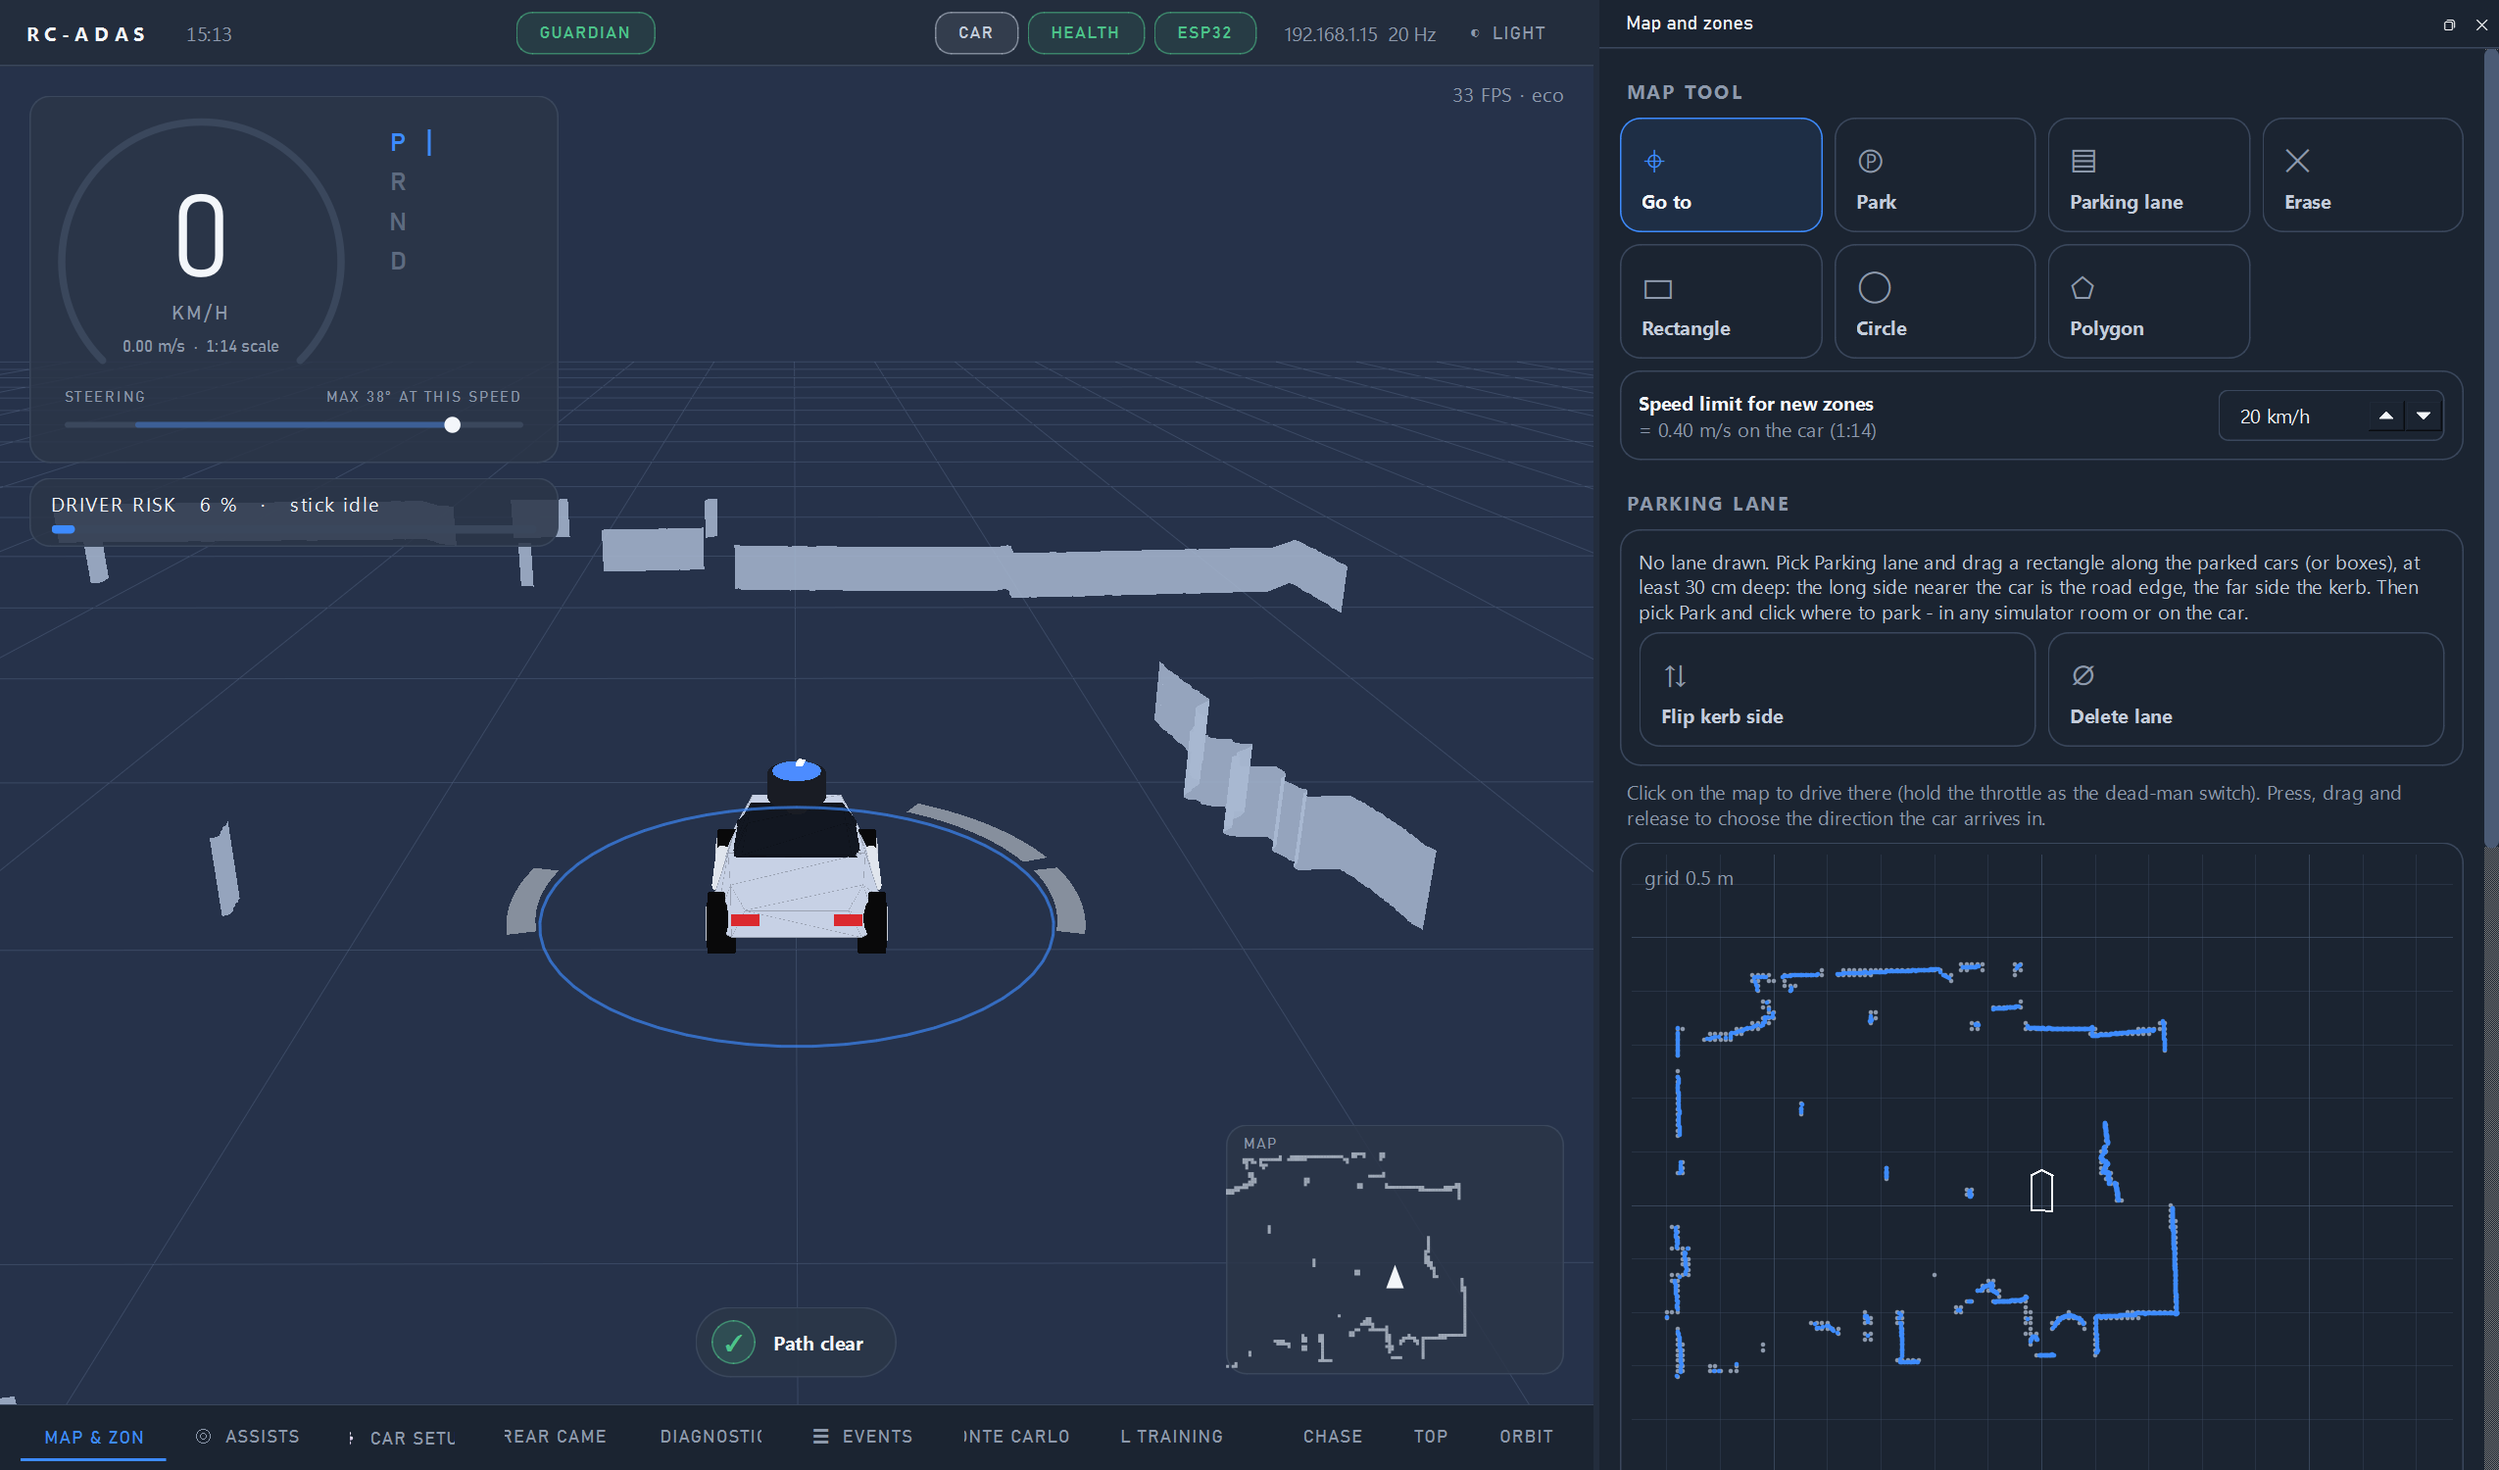
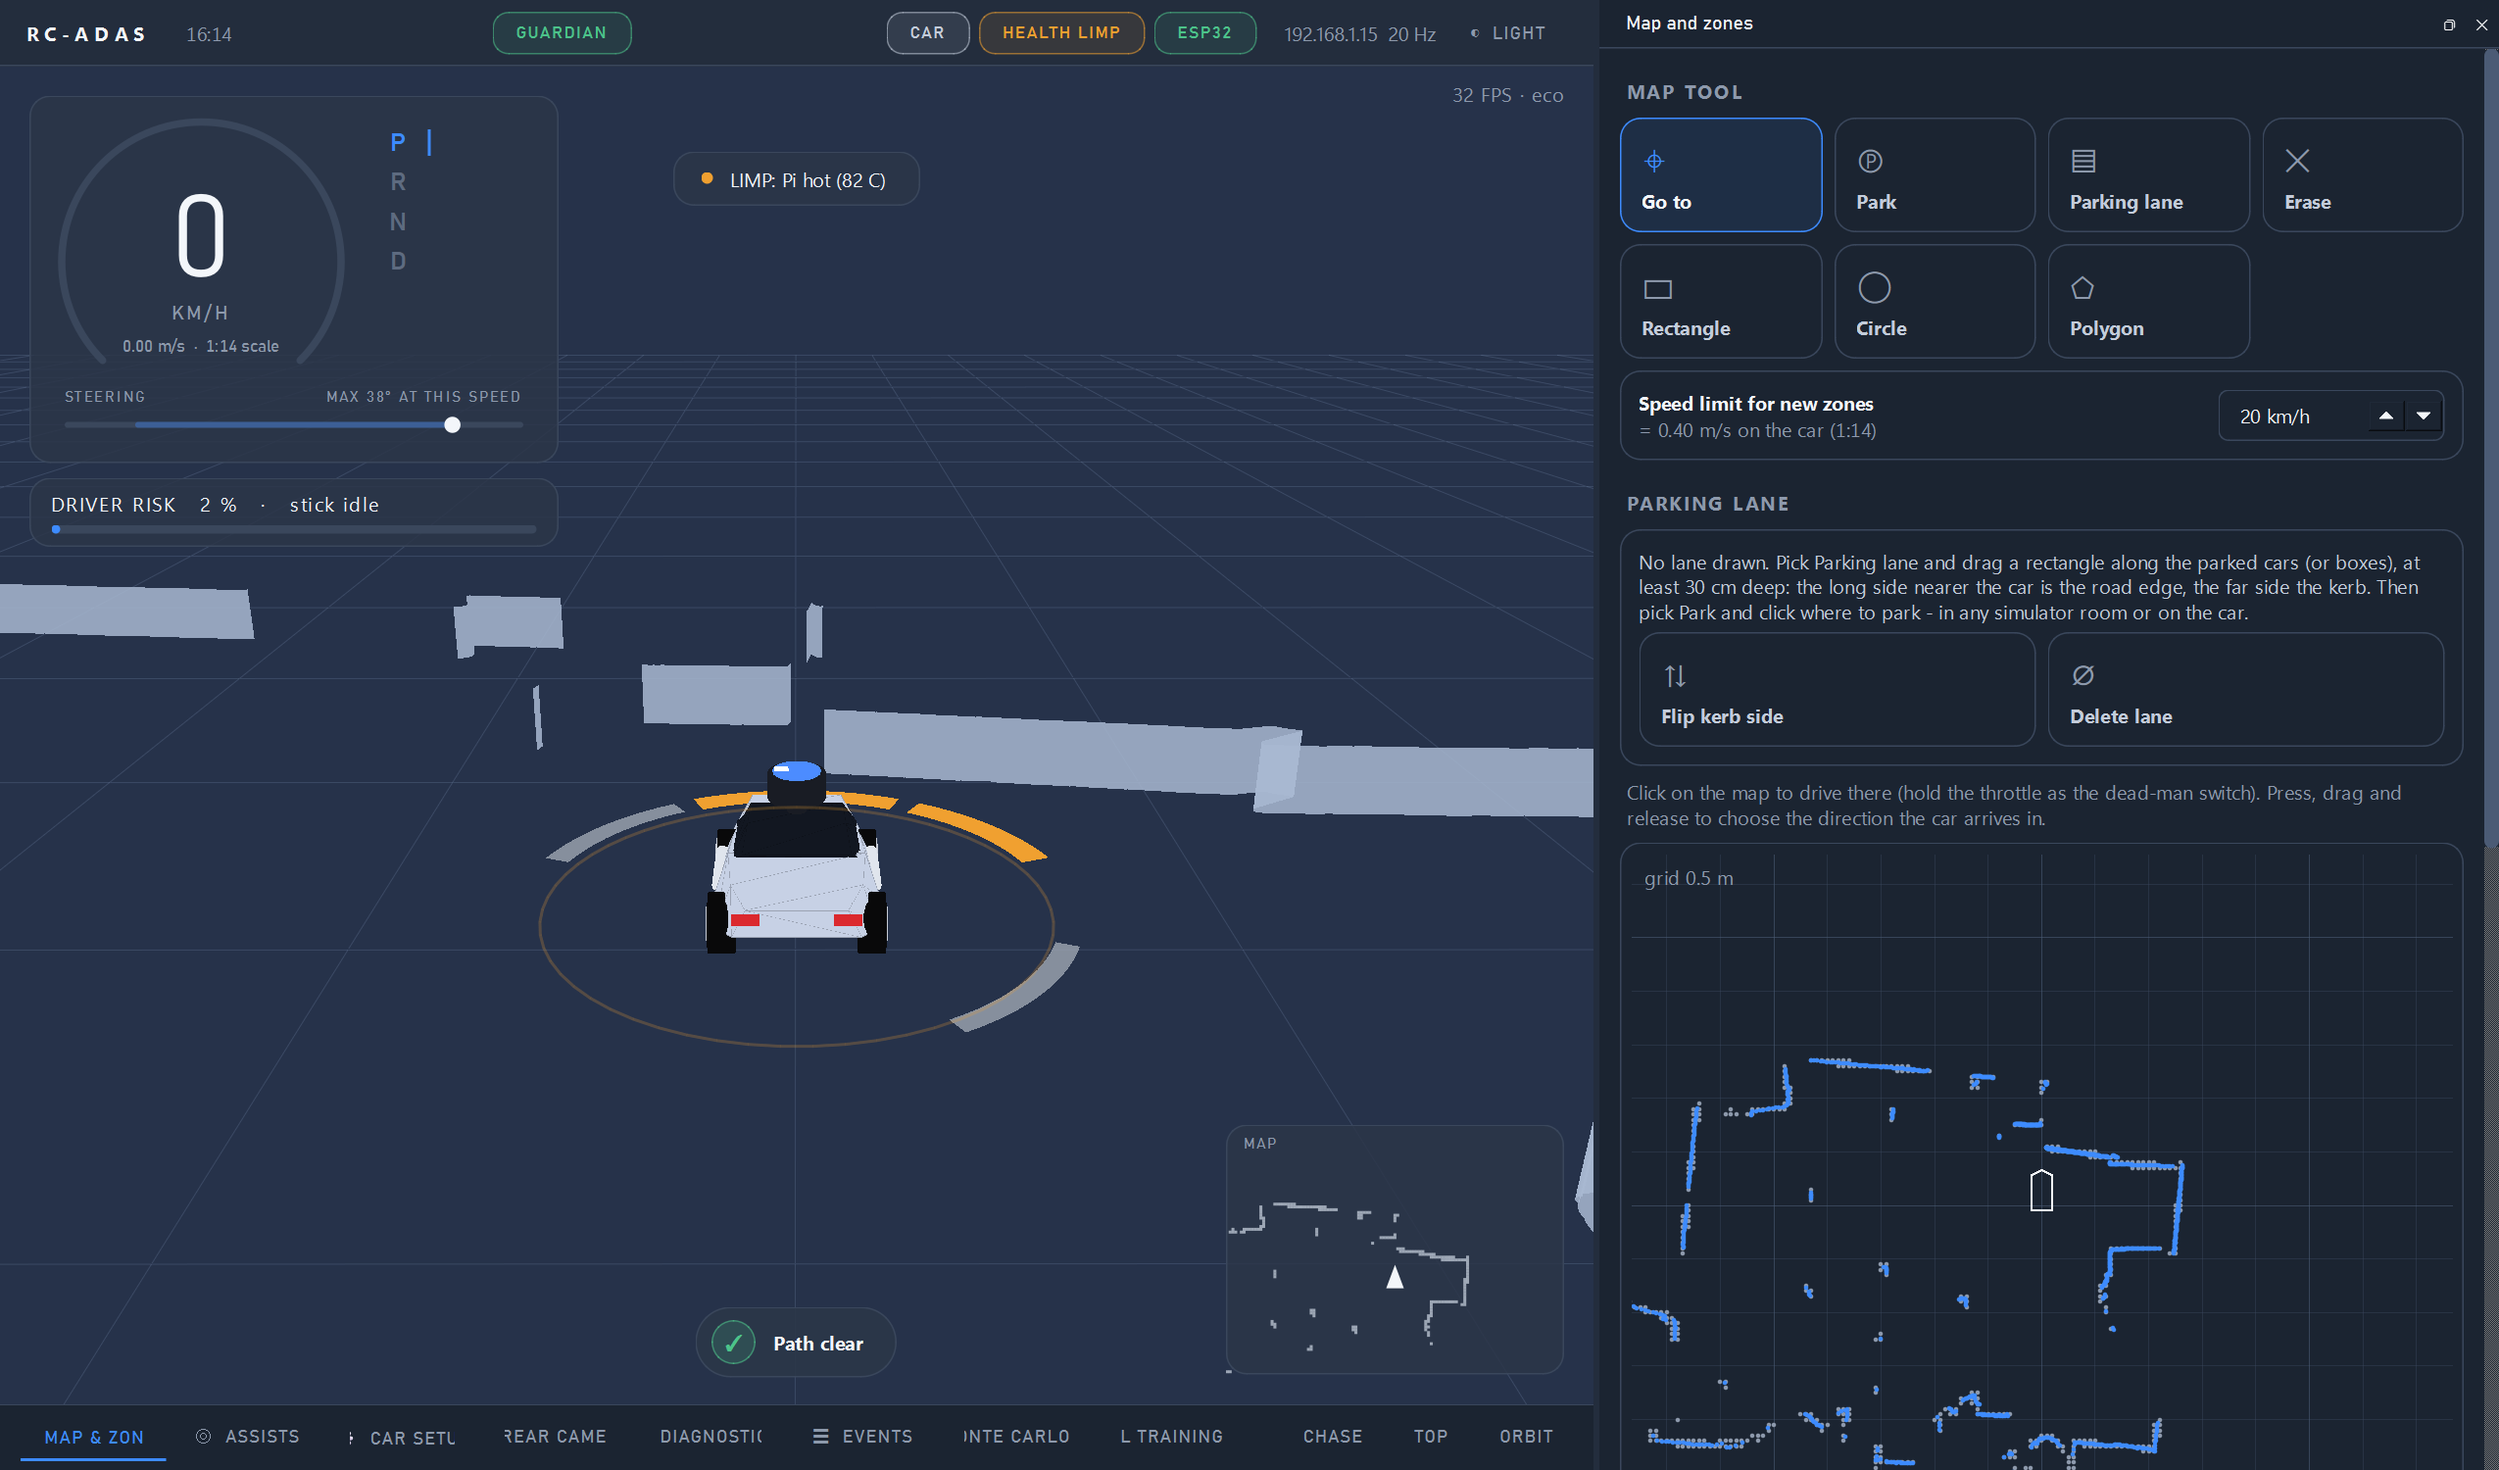
Car check 14 Oct: bumper deployed, gate stop 5.8 cm

diff --git a/src/adas_project/docs/TODO.md b/src/adas_project/docs/TODO.md
@@ -975,6 +975,9 @@ the car finds the gaps with its LiDAR and parks in the viable part of the strip 
       nothing: 1/5 home, 0-7 contacts; reverted). Virtual bumper (ADR-047, adas/contact.py in PathGate): pushing time -83 % at an
       invisible box in the twin. Lesson: dashboard twin runs must not share the CPU with the test suite - the relay slows like the
       Pi's did and drives worse (a 1/5 vs 4/5 home difference came from that, not from code).
+      (Virtual bumper deployed 14 Oct with AK1/AK2 (commit 55900d6, relay restarted via the panel): car check through the dashboard -
+      gate-only brake held the car 5.8 cm from an object after a 19 cm crawl, no false contact, steering unchanged. Pi 80 C (limp)
+      again after ~1 h: the fan (AH5) is still missing.)
 - [ ] AK3. Brake hysteresis (release at d + 3-5 cm after 2-3 clear scans) and a speed-dependent protective field.
 - [ ] AK4. Follower: RPP-style proximity and curvature slow-down, minimum speed above the dead-band, velocity-scaled lookahead.
 - [ ] AK5. Online steering bias/gain (RLS on scan-matched yaw rate) + backlash compensation (adas/online_steering.py exists - review vs RLS).
